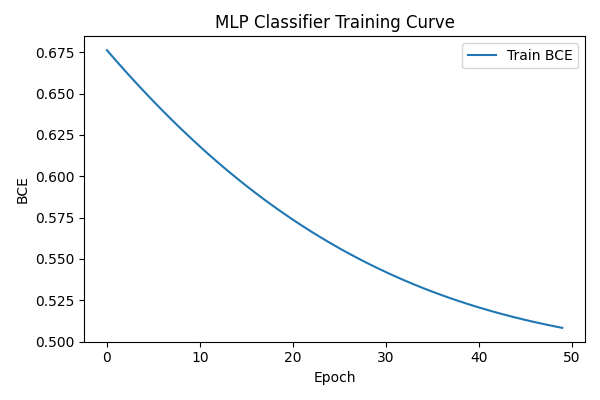
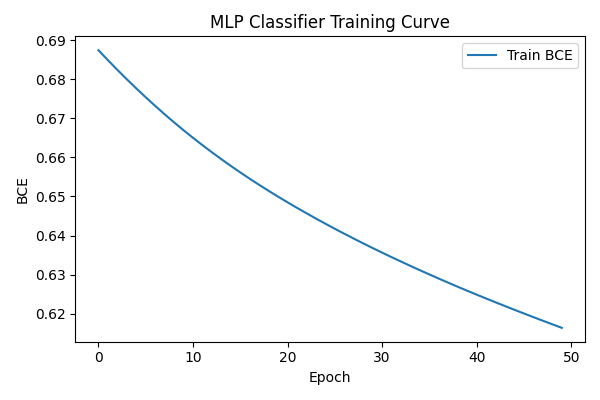
Working version before clean up

diff --git a/hallucinations_detector/main.py b/hallucinations_detector/main.py
@@ -9,6 +9,7 @@ from dataset_loader import (
     load_simplequestions_wikidata_train_val,
     load_squad_v1_train_val,
     load_webquestions_train_val,
+    load_custom_facts_train_val
 )  # dataset splits
 from console_utils import create_results_table, create_examples_table, render_corr_table, render_summary_table
 from detector import HallucinationDetector  # KL-based scoring
@@ -59,8 +60,8 @@ def parse_args():
     parser.add_argument(
         "--dataset",
         type=str,
-        default="squad",
-        choices=["truthfulqa", "simplequestions_wikidata", "squad", "web_questions"],
+        default="facts",
+        choices=["truthfulqa", "simplequestions_wikidata", "squad", "web_questions", "facts"],
     )
     parser.add_argument("--train_split", type=str, default="train[:400]")
     parser.add_argument("--val_split", type=str, default="validation[:100]")
@@ -101,6 +102,9 @@ if __name__ == "__main__":
             answerable_only=args.answerable_only,
             resolve_labels=not args.no_resolve_wikidata_labels,
         )
+    elif args.dataset == "facts":
+        # Load your custom CSV
+        train_set, val_set = load_custom_facts_train_val("facts.csv")
     else:
         train_set, val_set = load_truthfulqa_train_val(
             train_split=args.train_split,
@@ -137,68 +141,81 @@ if __name__ == "__main__":
         kl_std_scores = []
         cos_scores = []
         tfidf_scores = []
-        nli_scores = []
+        nli_scores = [] # We will reuse this list name so the rest of the code doesn't break
         meta = []
 
-
         for idx, item in enumerate(tqdm(dataset, desc=desc), start=1):
-            # Prompt formatting.
-            question = item["question"]
-            context = item.get("context", "")
-            if context:
-                wrapped_prompt = (
-                    f"context: {context}\nquestion: {question}\nshort answer (one or two words):"
-                )
+            
+            # 1. Dataset-Specific Prompting
+            if args.dataset == "lambada":
+                raw_prompt = item["question"]
+                words = raw_prompt.split()
+                if len(words) > 15: # Fast truncation
+                    raw_prompt = " ".join(words[-15:])
+                wrapped_prompt = raw_prompt
+            elif args.dataset == "facts":
+                # Facts dataset is already short, just use it directly
+                wrapped_prompt = item["question"]
             else:
-                wrapped_prompt = f"question: {question} short answer (one or two words):"
+                # Fallback for other datasets
+                wrapped_prompt = item["question"]
 
-            # KL-based hallucination score + generated answer.
+            # 2. Run Model (Get Entropy/KL)
             kl_stats, model_answer = hallucination_detector.calculate_hallucination_score(prompt=wrapped_prompt)
 
-            # Reference answer.
+            # 3. Get Expected Answer
             expected = item.get("best_answer", "")
 
-            # Normalize answers
+            # 4. Normalize (Lowercase, remove punctuation/articles)
+            # This handles "The Paris" == "paris"
             norm_expected = normalize_answer(expected)
             norm_model_answer = normalize_answer(model_answer)
 
-            # Similarity metrics (higher = more similar).
-            cos_sim = similarity_detector.cosine_similarity(norm_model_answer, norm_expected)
-            tfidf_sim = similarity_detector.tfidf_cosine_similarity(norm_model_answer, norm_expected)
-            nli_score = similarity_detector.nli_entailment_score(norm_expected, norm_model_answer)
+            # 5. STRICT CLASSIFICATION (The Change)
+            # If they match exactly -> 1.0 (True)
+            # If they differ even slightly -> 0.0 (Hallucination)
+            if norm_model_answer == norm_expected:
+                binary_score = 1.0
+            else:
+                binary_score = 0.0
 
+            # We verify with simple containment for edge cases (optional)
+            # e.g. target="Washington", model="George Washington" -> Acceptable?
+            # For now, let's stick to strict equality as you asked.
+            
+            # 6. Store Scores
             kl_scores.append(kl_stats["mean"])
             kl_max_scores.append(kl_stats["max"])
             kl_p90_scores.append(kl_stats["p90"])
             kl_std_scores.append(kl_stats["std"])
+            
+            # We treat 'nli_score' as our Ground Truth label now (0 or 1)
+            nli_scores.append(binary_score) 
+            
+            # Calculate these just for graphs, but they won't determine the label
+            cos_sim = similarity_detector.cosine_similarity(norm_model_answer, norm_expected)
             cos_scores.append(cos_sim)
-            tfidf_scores.append(tfidf_sim)
-            nli_scores.append(nli_score)
+            tfidf_scores.append(0.0) # Skip TFIDF to speed it up
 
             if return_meta:
-                meta.append(
-                    {
-                        "question": question,
-                        "model_answer": norm_model_answer,
-                        "expected": norm_expected,
-                        "nli": nli_score,
-                    }
-                )
+                meta.append({
+                    "question": wrapped_prompt,
+                    "model_answer": norm_model_answer,
+                    "expected": norm_expected,
+                    "nli": binary_score, 
+                })
 
             if limit_table:
-                # Shorten long strings to keep the table readable.
-                short_q = question if len(question) <= 80 else question[:77] + "..."
-                short_model = norm_model_answer if len(norm_model_answer) <= 80 else norm_model_answer[:77] + "..."
-                short_expected = norm_expected if len(norm_expected) <= 80 else norm_expected[:77] + "..."
+                short_q = wrapped_prompt if len(wrapped_prompt) <= 60 else "..." + wrapped_prompt[-57:]
                 results_table.add_row(
                     str(idx),
                     f"{kl_stats['mean']:.4f}",
-                    f"{cos_sim:.4f}",
-                    f"{tfidf_sim:.4f}",
-                    f"{nli_score:.4f}",
+                    f"{binary_score:.0f}", # Display as 0 or 1
+                    "-",
+                    "-",
                     short_q,
-                    short_model,
-                    short_expected,
+                    norm_model_answer,
+                    norm_expected,
                 )
 
         return kl_scores, kl_max_scores, kl_p90_scores, kl_std_scores, cos_scores, tfidf_scores, nli_scores, meta

diff --git a/hallucinations_detector/dataset_loader.py b/hallucinations_detector/dataset_loader.py
@@ -3,6 +3,8 @@ from pathlib import Path
 from typing import Optional
 from urllib.parse import urlencode
 from urllib.request import Request, urlopen
+import pandas as pd
+
 
 from datasets import load_dataset
 
@@ -180,3 +182,26 @@ def load_simplequestions_wikidata_train_val(
         val = val.map(_normalize_qa_record)
 
     return train, val
+
+
+def load_custom_facts_train_val(path="facts.csv"):
+    # Load the CSV
+    df = pd.read_csv(path)
+    
+    # Create a simple list of dicts
+    data = []
+    for _, row in df.iterrows():
+        data.append({
+            "question": row["question"],     # The prompt (e.g., "The capital of France is")
+            "best_answer": row["best_answer"], # The target (e.g., "Paris")
+            "context": ""
+        })
+        
+    # Convert to Hugging Face Dataset format
+    from datasets import Dataset
+    dataset = Dataset.from_list(data)
+    
+    # Split into Train (80%) and Val (20%)
+    dataset = dataset.train_test_split(test_size=0.2, seed=42)
+    
+    return dataset["train"], dataset["test"]

diff --git a/hallucinations_detector/detector.py b/hallucinations_detector/detector.py
@@ -35,7 +35,7 @@ class HallucinationDetector:
 
     def parse_args(self):
         parser = argparse.ArgumentParser()
-        parser.add_argument("--model_name", type=str, default="gpt2")
+        parser.add_argument("--model_name", type=str, default="gpt2-large")
         parser.add_argument("--device", type=str, default=None)
         parser.add_argument("--max_new_tokens", type=int, default=30)
         parser.add_argument("--min_new_tokens", type=int, default=1)
@@ -190,9 +190,9 @@ class HallucinationDetector:
             if any(char in partial_text for char in [".", "\n", ",", ";", "!", "?"]):
                 break
 
-            # 2. Stop immediately if we have generated more than 3 words
+            # 2. Stop immediately if we have generated more than 10 words
             # (Allows for "The United States" but kills "The United States is...")
-            if len(partial_text.strip().split()) >= 3:
+            if len(partial_text.strip().split()) >= 10:
                 break
 
         if not kl_scores:
